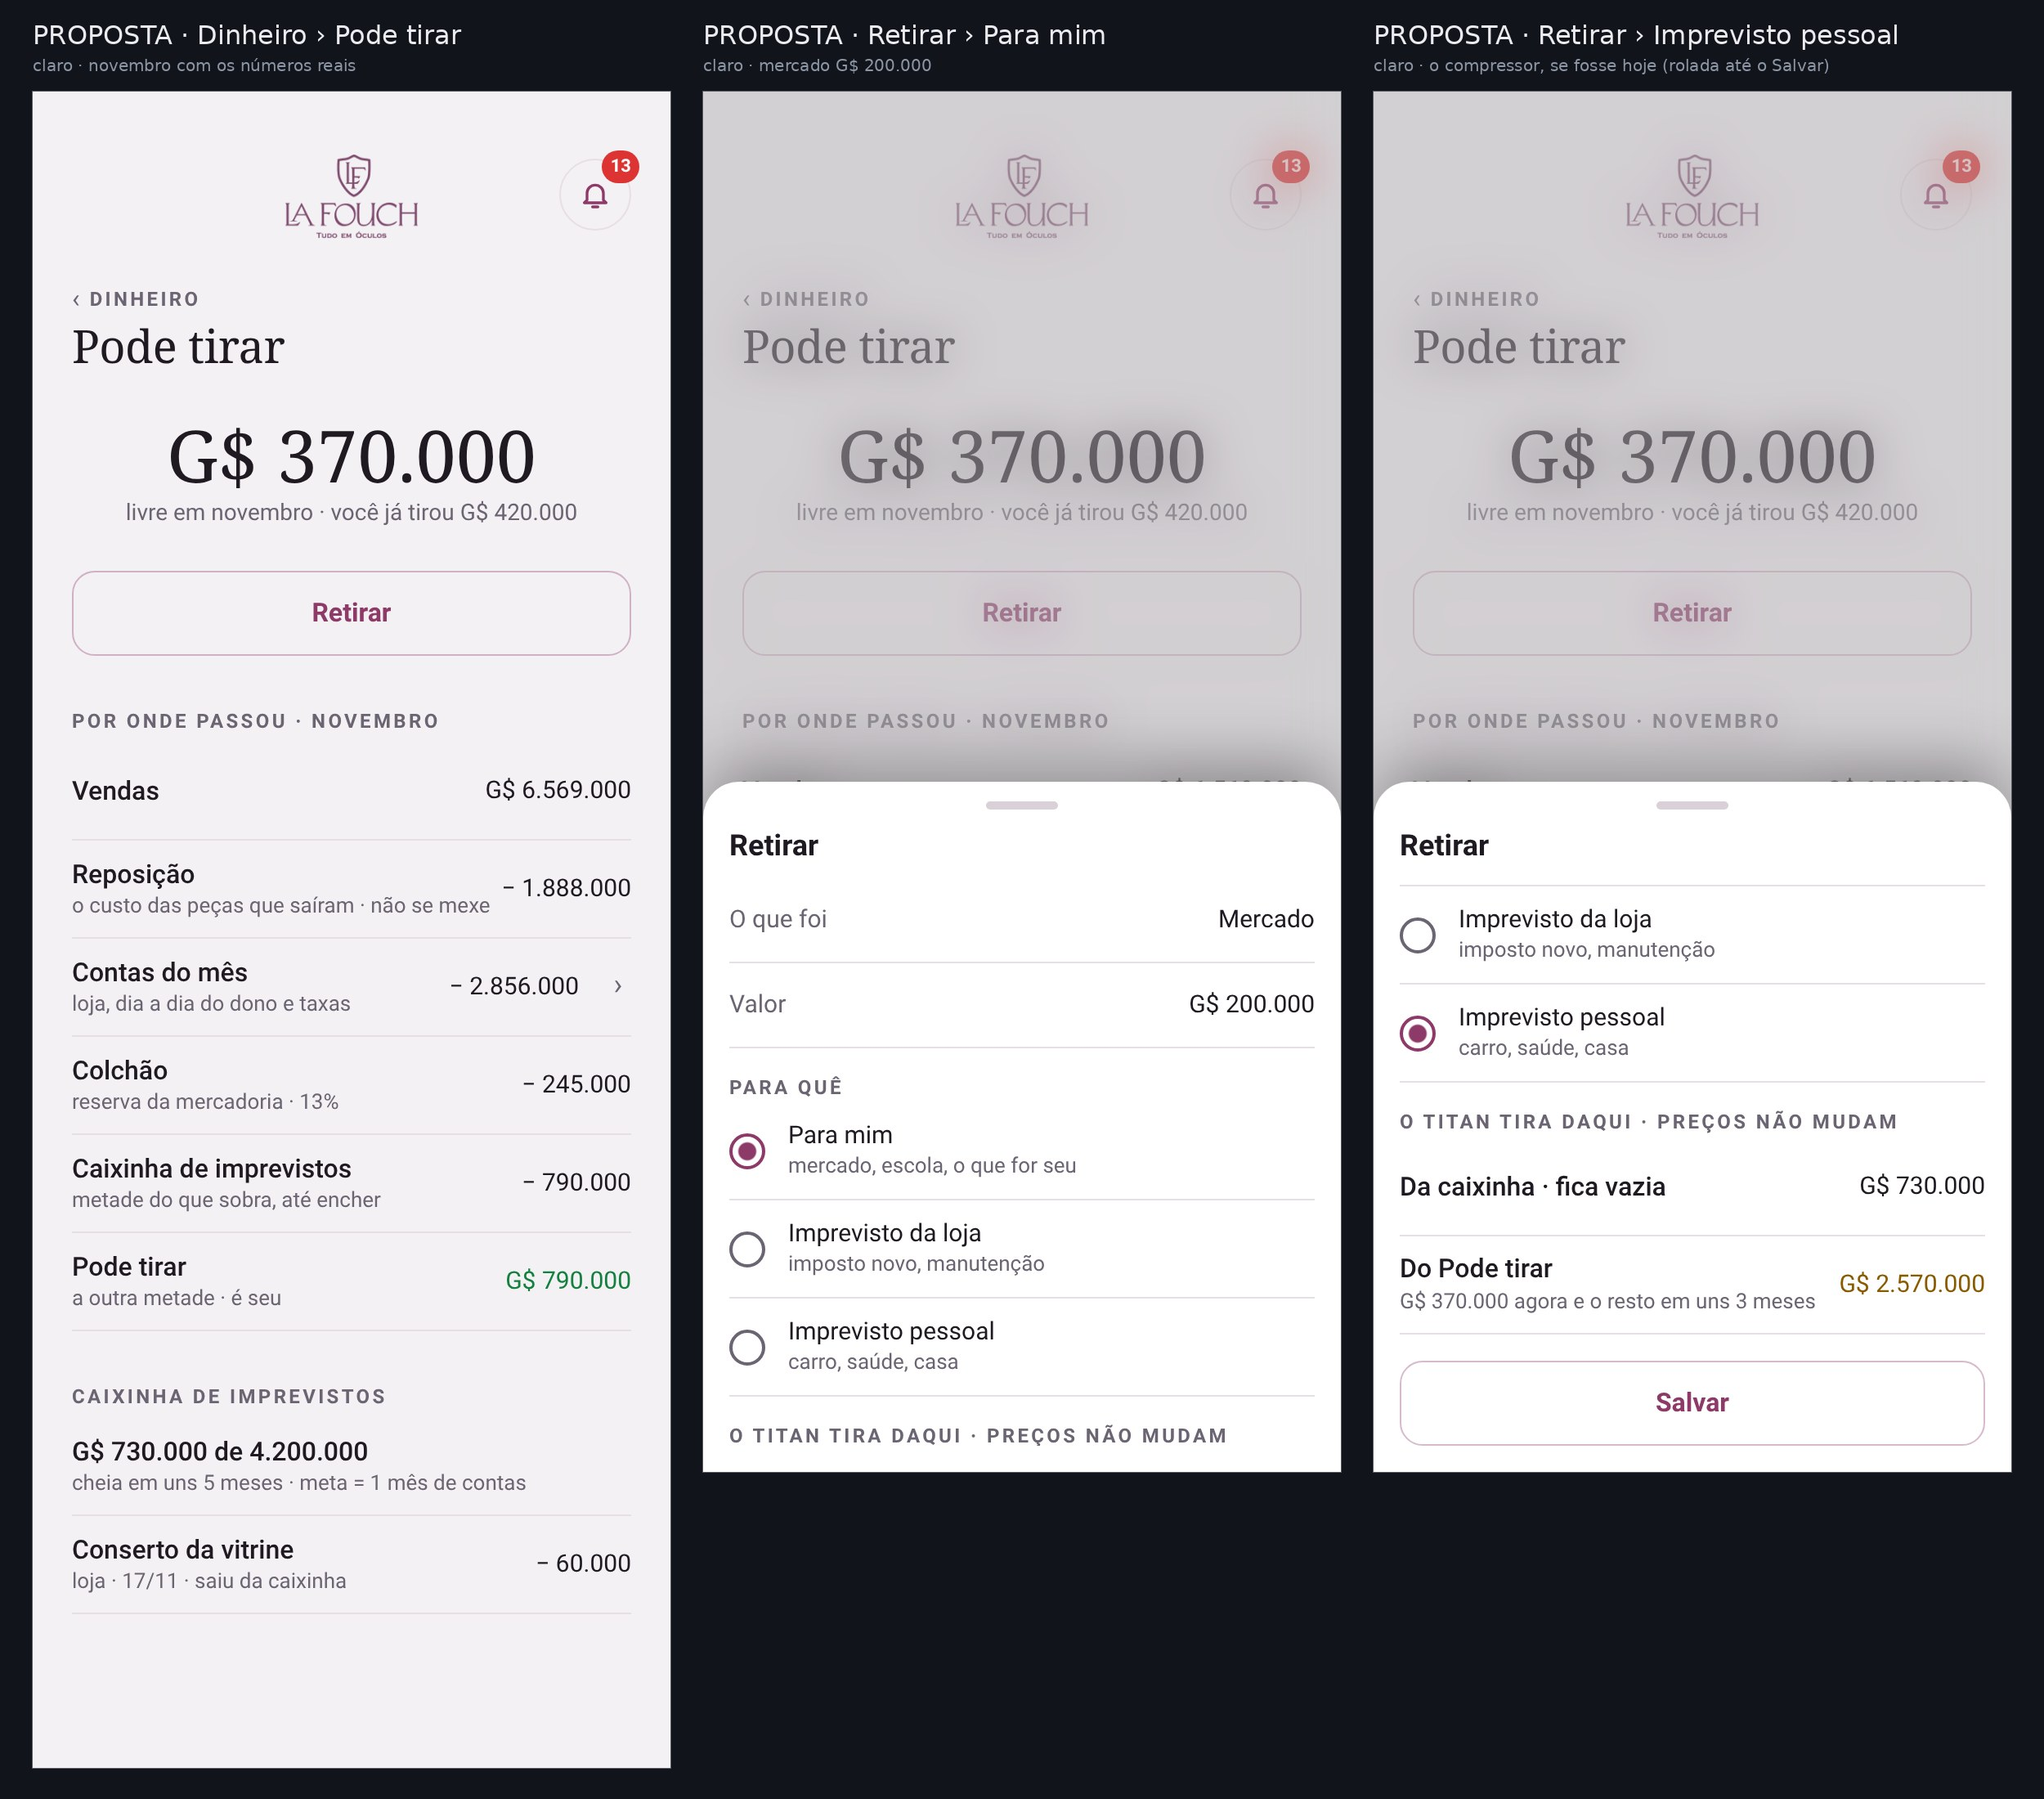
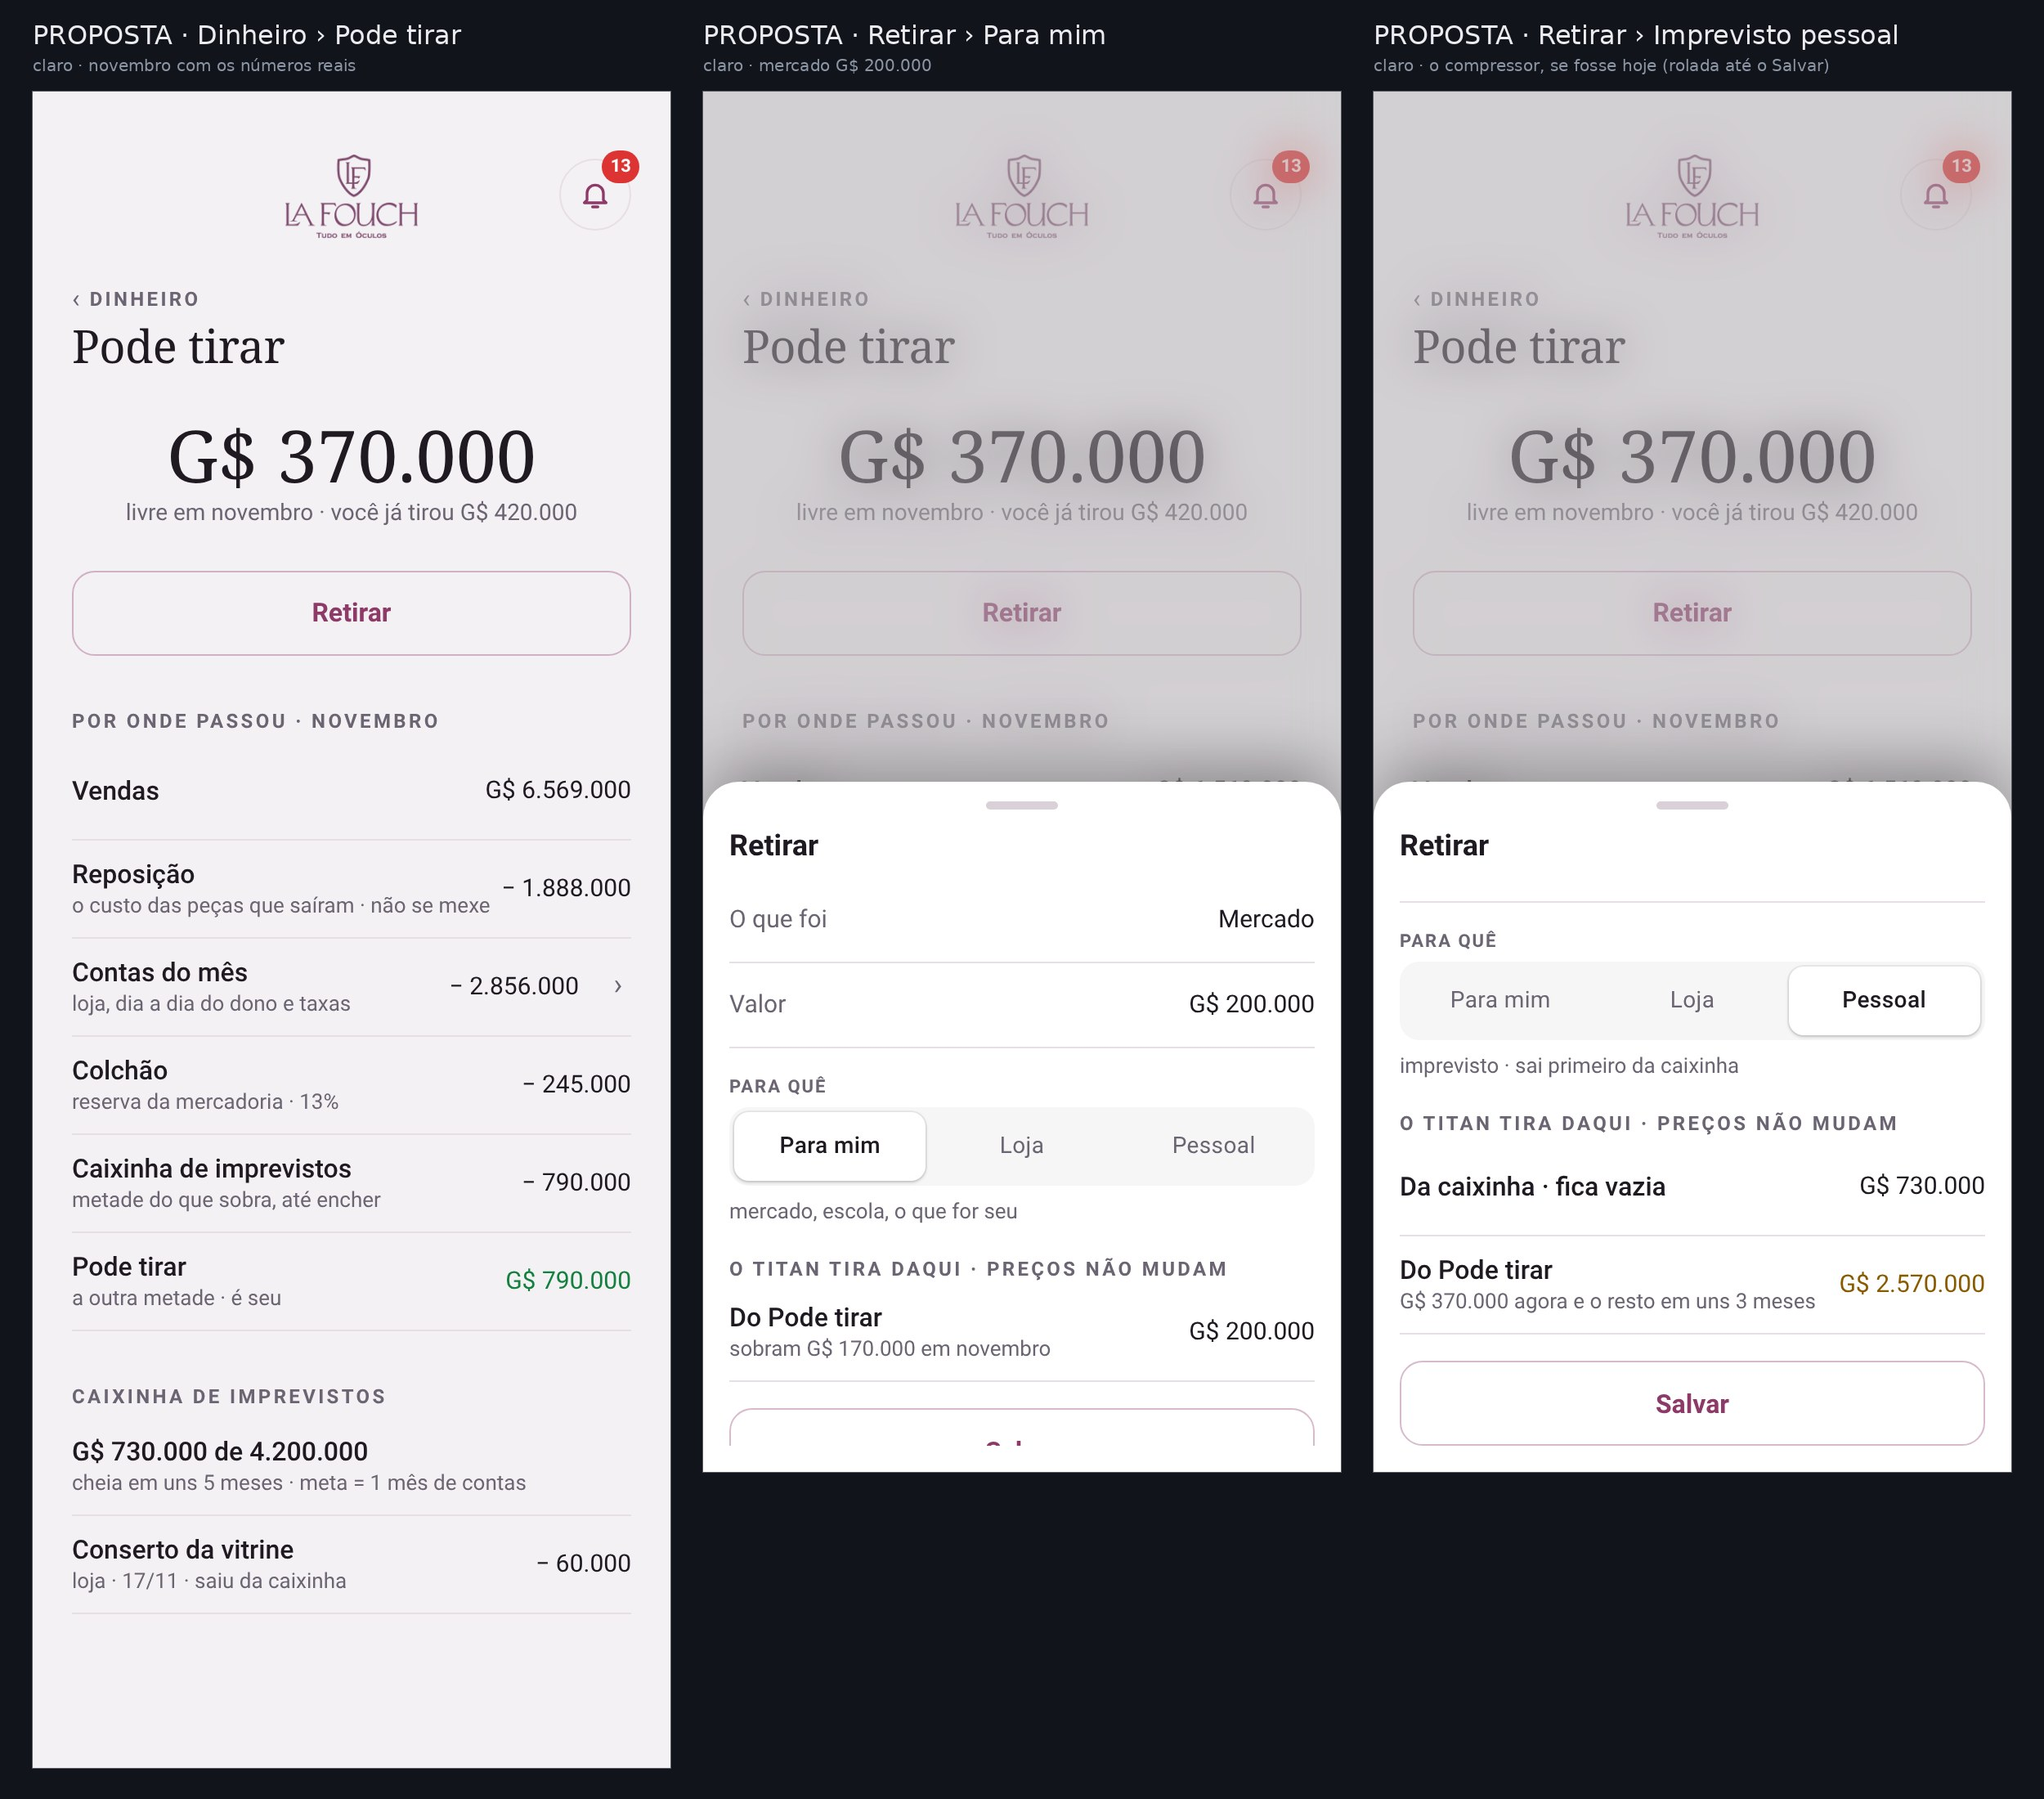
S435: 79 v4 (barra .trk) + inventário da família de barras
Claude-Session: https://claude.ai/code/session_01Vj5GPRt4UBskC3w8v52h7G

diff --git a/work/s435/gavetas/esboco_79.py b/work/s435/gavetas/esboco_79.py
@@ -7,6 +7,8 @@
 # v3 (dono 22:54–22:55): por que dividir em dois? → UM botão 'Retirar' com 'Para quê': Para mim (sai do Pode tirar) · Imprevisto da
 # loja · Imprevisto pessoal (saem primeiro da caixinha); o Titan mostra de onde sai antes de salvar. A caixinha na tela é só para
 # acompanhar (sem ›, sem botão).
+# v4 (dono 22:58): a barra É bonita — o erro foi o MEU: usei .adSeg (outra peça) espremida numa linha. Volta a barra do app (.trk, a
+# mesma do Pagamento: título pequeno em cima e a barra na largura toda): Para mim · Loja · Pessoal.
 # Sai a conta fixa 'Provisão de imprevistos' (G$ 200.000) — a caixinha a substitui.
 # Base: app real — Caixa › 'Retirada do dono' (src/57-financas.js retiradaHtml, src/95-caixa.js:277) e resultadoMes(nov/2026) REAL:
 # vendas 6.569.000 · custo das peças 1.888.004 · taxas 36.270 · contas da loja 1.320.000 · salário 1.500.000 · imprevisto 60.000
@@ -37,13 +39,12 @@ def janela(pw,esc,k):
    const O=(t,s,on)=>'<button type="button" class="pxL" role="radio" aria-checked="'+on+'" style="min-height:60px"><i class="pxR" aria-hidden="true"></i><span style="flex:1;min-width:0"><span style="display:block;font-size:15px">'+t+'</span><small style="display:block;font-size:13px;color:var(--mute)">'+s+'</small></span></button>';
    const T2=t=>'<div style="font-size:12px;font-weight:700;letter-spacing:.14em;text-transform:uppercase;color:var(--mute);margin:16px 0 0">'+t+'</div>';
    const P=k=='mim';
-   return F('O que foi',P?'Mercado':'Compressor do carro')+F('Valor',P?'G$ 200.000':'G$ 3.300.000')+T2('Para quê')+
-    O('Para mim','mercado, escola, o que for seu',P)+O('Imprevisto da loja','imposto novo, manutenção',false)+O('Imprevisto pessoal','carro, saúde, casa',!P)+
-    T2('O Titan tira daqui · preços não mudam')+
+   return F('O que foi',P?'Mercado':'Compressor do carro')+F('Valor',P?'G$ 200.000':'G$ 3.300.000')+'<div class="lbl" style="margin-top:16px">Para quê</div><div class="trk" role="group" aria-label="Para quê"><span class="trkTh"></span><button class="trkB'+(P?' on':'')+'" type="button">Para mim</button><button class="trkB" type="button">Loja</button><button class="trkB'+(P?'':' on')+'" type="button">Pessoal</button></div>'+
+    '<div style="font-size:13px;color:var(--mute);padding:8px 0 0">'+(P?'mercado, escola, o que for seu':'imprevisto · sai primeiro da caixinha')+'</div>'+T2('O Titan tira daqui · preços não mudam')+
     (P?L('Do Pode tirar','sobram G$ 170.000 em novembro','G$ 200.000'):L('Da caixinha · fica vazia','','G$ 730.000')+L('Do Pode tirar','G$ 370.000 agora e o resto em uns 3 meses','G$ 2.570.000','var(--warn,#e0b44c)'))+
     '<button type="button" class="go" style="width:100%;margin-top:16px">Salvar</button>'}""",k)
   pg.evaluate("""()=>{const S=window.__LF.S;S.pixSemPar=[{id:'x',moeda:'brl',valor:1,ts:Date.now(),motivo:'sem-pedido'}];window.__LF.ACT.pixLigar('x')}""");w(900)
-  pg.evaluate("""h=>{const j=[...document.querySelectorAll('.ljJn')].pop();j.querySelector('.ljHd b').textContent='Retirar';const c=j.querySelector('.ljCorpo')||j;c.innerHTML=h}""",html);w(700)
+  pg.evaluate("""h=>{const j=[...document.querySelectorAll('.ljJn')].pop();j.querySelector('.ljHd b').textContent='Retirar';const c=j.querySelector('.ljCorpo')||j;c.innerHTML=h;const t=c.querySelector('.trk'),o=t.querySelector('.trkB.on'),th=t.querySelector('.trkTh');th.style.cssText='width:'+o.offsetWidth+'px!important;transform:translateX('+(o.offsetLeft-3)+'px)!important;left:3px!important'}""",html);w(700)
   confere(pg,'Janela '+k);pg.evaluate("k=>{document.querySelectorAll('*').forEach(e=>{if(e.scrollTop)e.scrollTop=0});if(k!='mim'){const j=[...document.querySelectorAll('.ljJn')].pop();[j,...j.querySelectorAll('*')].forEach(e=>{if(e.scrollHeight>e.clientHeight+4)e.scrollTop=9999})}}",k);w(400)
   pg.screenshot(path='/tmp/g2.png');b.close();return Image.open('/tmp/g2.png').convert('RGB')
 if __name__=='__main__':

diff --git a/work/s435/barras/inventario.py b/work/s435/barras/inventario.py
@@ -1,0 +1,29 @@
+# Inventário 1 da FAMÍLIA "barra de escolha" (pedido do dono 22/11 22:58: "como é que ta a família de barras deslizantes?").
+# Cada barra é desenhada com a marcação REAL do app (classe e filhos iguais ao src/) e o CSS real; mesmas 3 opções para comparar.
+import sys;sys.path.insert(0,'/home/claude/lafouch/work/s349');import ap
+from playwright.sync_api import sync_playwright
+from PIL import Image,ImageDraw,ImageFont
+B=lambda cls,ops,on=0,extra='':''.join('<button type="button" class="%s%s"%s>%s</button>'%(cls,(' on' if i==on else ''),extra,o) for i,o in enumerate(ops))
+O3=['Para mim','Loja','Pessoal']
+V=[('1 · .trk (trilho que arrasta)','Pagamento, Câmbio, Ajustes, Estúdio, Faixas… (13 arquivos)','<div class="trk" role="group"><span class="trkTh"></span>'+B('trkB',O3)+'</div>'),
+   ('2 · .sg418','Retirada do dono (moeda) · Câmbio (trocar de / receber em)','<div class="sg418" role="group">'+B('',O3)+'</div>'),
+   ('3 · .catbar3','Clientes (nacionalidade) · Loja online','<div class="catbar3" role="group">'+B('',O3)+'</div>'),
+   ('4 · .catbar3.impSeg','Impressora (conexão)','<div class="catbar3 impSeg" role="group">'+B('',O3)+'</div>'),
+   ('5 · .tmseg','Ajustes › Tema (Auto · Claro · Escuro)','<div class="tmseg" role="group">'+B('',O3)+'</div>'),
+   ('6 · .adSeg','Adicionar (Aguardando cadastro · Dar entrada) — a que usei errado no 79','<div class="adSeg" role="tablist">'+B('',O3)+'</div>'),
+   ('7 · #sortChips (chips)','Inventário › Filtros › Ordem','<div id="sortChips2" class="chips">'+B('chip',O3)+'</div>'),
+   ('8 · .pdSeg.lfAbas (abas)','Pedidos (situação) — é ABA, outra família','<div class="pdSeg lfAbas" role="group">'+B('',O3)+'</div>')]
+def tela(pw,esc):
+  b,pg,w=ap.abre(pw,'vendas',esc,'celular',base=True);w(600)
+  html=''.join('<div style="margin:0 0 24px"><div style="font-size:15px;font-weight:600;color:var(--fg)">%s</div><div style="font-size:12px;color:var(--mute);margin:2px 0 8px">%s</div>%s</div>'%v for v in V)
+  pg.evaluate("""h=>{const d=document.createElement('div');d.id='inv';d.style.cssText='position:fixed;inset:0;z-index:999;overflow:auto;background:var(--bg);padding:24px 16px';d.innerHTML=h;document.body.appendChild(d);
+    const t=d.querySelector('.trk'),o=t.querySelector('.trkB.on'),th=t.querySelector('.trkTh');th.style.cssText='width:'+o.offsetWidth+'px!important;transform:translateX('+(o.offsetLeft-3)+'px)!important;left:3px!important';
+    const sc=document.getElementById('sortChips2');sc.id='sortChips';window.__ladosCabe&&window.__ladosCabe(d)}""",html);w(800)
+  h=pg.evaluate("()=>document.getElementById('inv').scrollHeight");pg.set_viewport_size({'width':390,'height':max(844,h)});w(500)
+  pg.screenshot(path='/tmp/i.png');b.close();return Image.open('/tmp/i.png').convert('RGB')
+with sync_playwright() as pw:
+  a=tela(pw,True);c=tela(pw,False)
+F=ImageFont.truetype('/tmp/fnt/jost-400.ttf',30)
+o=Image.new('RGB',(a.width+c.width+90,max(a.height,c.height)+90),(17,20,26));d=ImageDraw.Draw(o)
+d.text((30,24),'INVENTÁRIO 1 · família "barra de escolha" · escuro',font=F,fill=(200,200,205));d.text((a.width+60,24),'claro',font=F,fill=(200,200,205))
+o.paste(a,(30,80));o.paste(c,(a.width+60,80));o.save('inventario_barras.jpg',quality=86);print(o.size)
